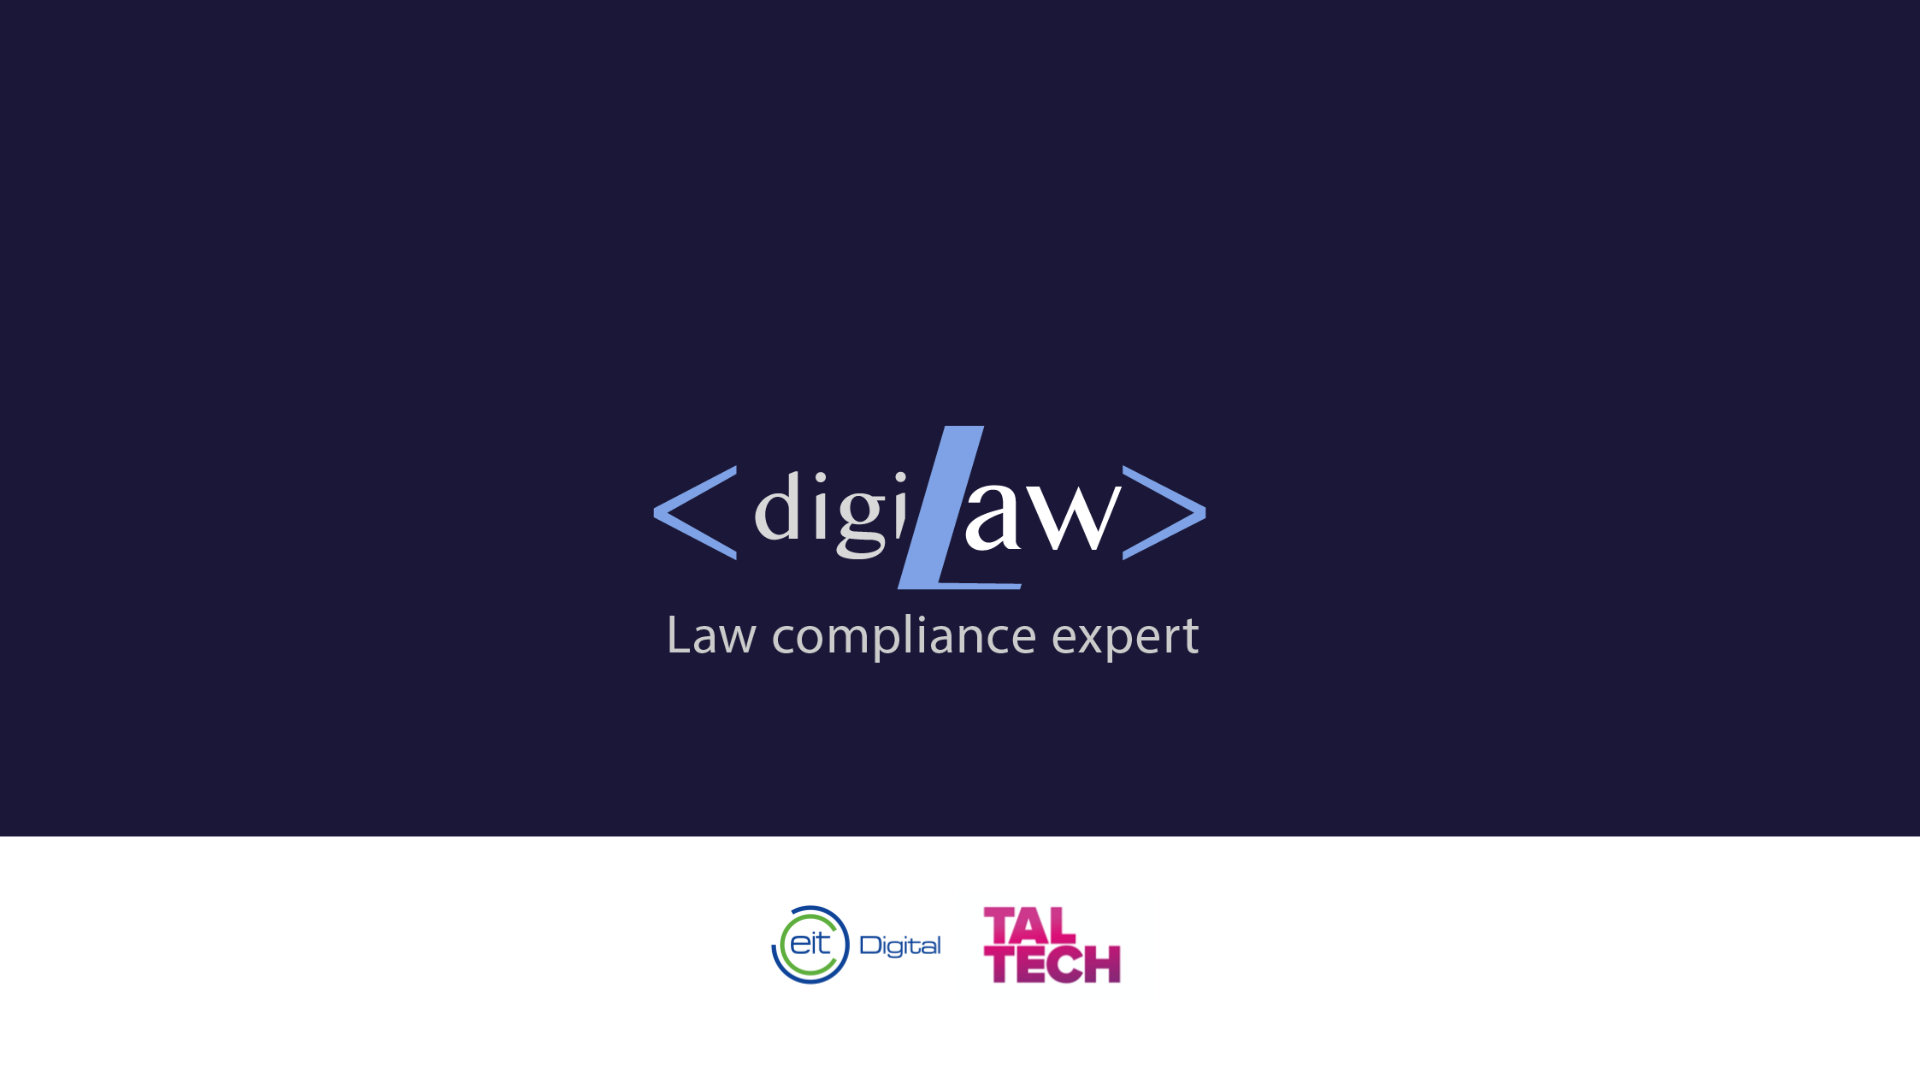
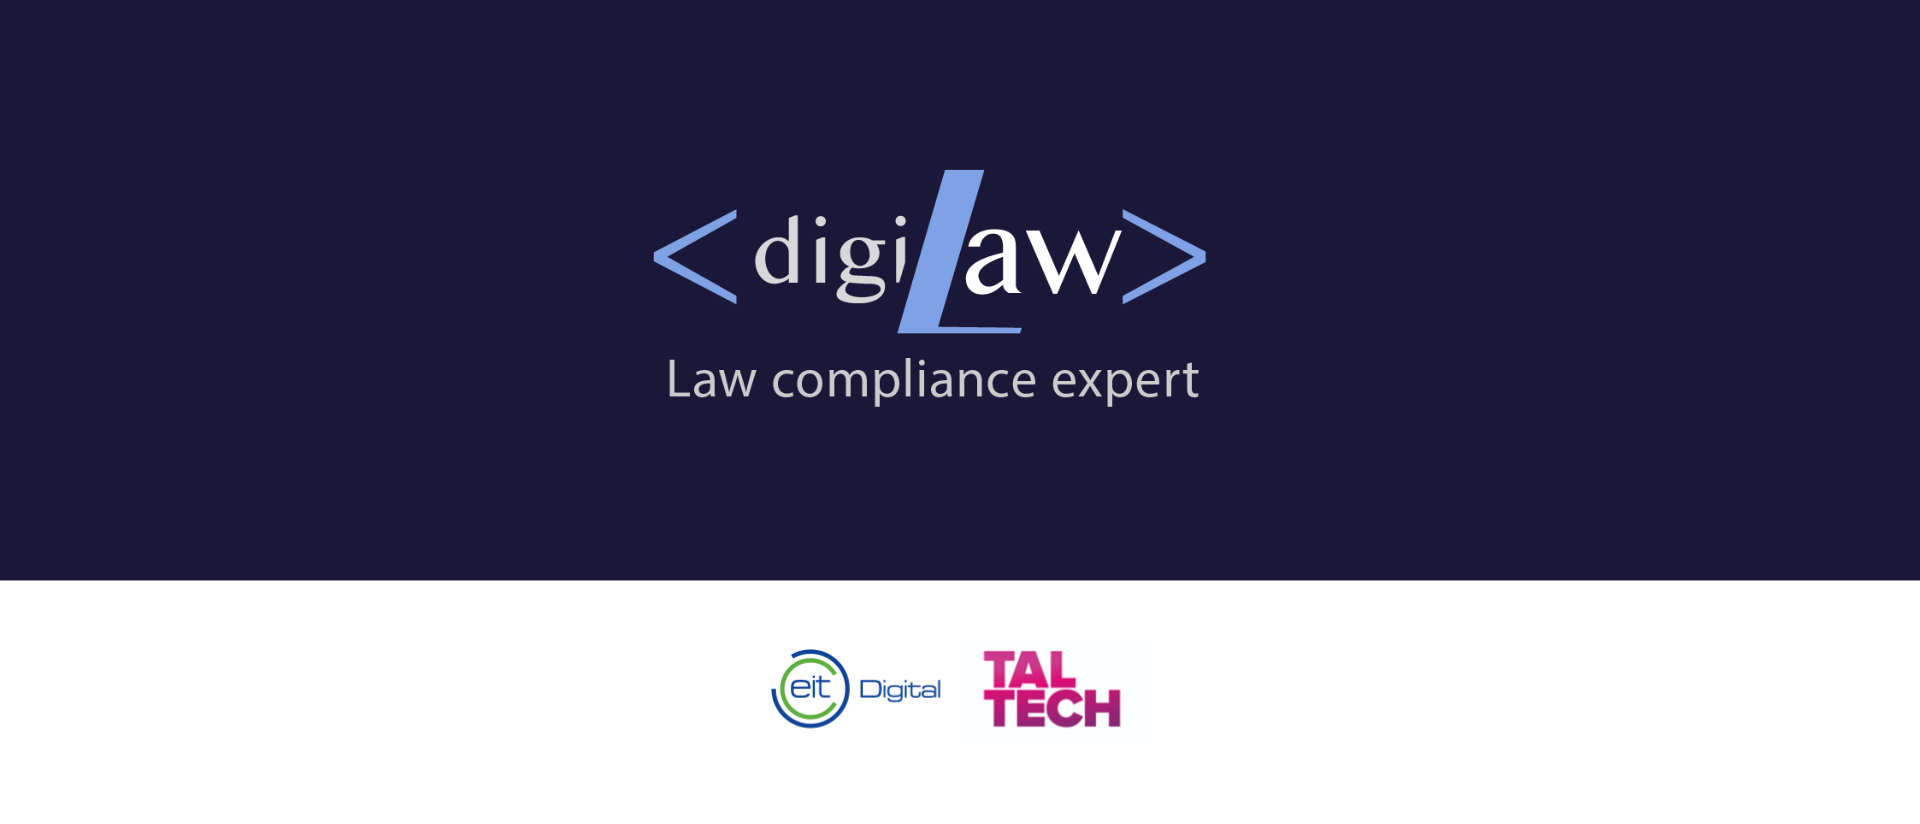
main change of Keegan

Changed region(s): [[0.0, 0.6978, 1.0, 0.9102], [0.3438, 0.2124, 0.625, 0.5461], [0.3438, 0.5765, 0.625, 0.6068]]

diff --git a/index.html b/index.html
@@ -27,26 +27,24 @@
          <div id="header-madsomma"></div>
          <div class="center-block justify-content-center">
 
-          <img class="min-vh-home" src="assets/img/home/1.png">
+          <!-- <img class="min-vh-home" src="assets/img/home/1.png"> -->
+          <img class="center-block min-vh-home" src="assets/img/home/1.png">
 
             <div  class="standard-page-width container">
                <div class="row text-center no-gutters">
-                  <div class="col-md-6">
-                     <h2><br><b>Test it!</b></h2>
+                  <div>
+                     <h2><br><b>Our Story</b></h2>
                      <p class="text-justify">
-                        Hei visitor, have a look at our prototype for the translation of the GDPR into code. Click on the following button to start the demo on Article 9.
+                        Hello, we are DigiLaw, and we are here to help small to medium sized businesses to comply with the ever changing laws of our digitalised society. Rules as Code means translating the complex human language of privacy regulations into logical code that can easily be checked by machines. Using such code our software can automatically check any system for GDPR compliance and tell what you would need to change and how.
+                     </p>
+                  </div>
+                  <div>
+                     <h2><br><b>Our Solution</b></h2>
+                     <p class="text-justify">
+                        A current  prototype  of  our solution  is currently  up and  running, click  on the button  below to check  your business's  compliance with  Article 9 of GDPR.
                      </p>
                      <div class="text-center">
-                        <a type="button" class="btn btn-link" href="test.html" style="color: #0078CD;"> <b>START</b></a>
-                     </div>
-                  </div>
-                  <div class="col-md-2"></div>
-                  <div class="col-md-4">
-                     <div style="text-align:center;">
-                        <h2><br><b>News</b><br></h2>
-                        <div class="alert alert-danger" role="alert" style="width: 100%">
-                           <b>Attention:</b> Due to the COVID-19 outbreak, we will not be avaiable for face to face meeting.
-                        </div>
+                       <button type="submit" class="our-button-color btn" id="btnContactUs"  onClick="location.href='test.html'";> Check your compliance! </button>
                      </div>
                   </div>
                </div>

diff --git a/info.html b/info.html
@@ -34,21 +34,25 @@
                </ol>
                <div class="carousel-inner">
                   <div class="carousel-item active">
-                     <img class="min-vh-home" src="assets/img/home/team.png">
+                     <img class="min-vh-homeInfo" src="assets/img/home/team.png">
                   </div>
                </div>
             </div>
             <div  class="standard-page-width container">
-               <div class="row no-gutters">
-                  <div class="col-md-12">
-                     <h2><br><b>Who we are</b></h2>
-                     <p class="text-justify">
-                        Hello, we are DigiLaw, and we are here to help small to medium sized businesses to comply with the ever changing laws of our digitalised society. Rules as Code means translating the complex human language of privacy regulations into logical code that can easily be checked by machines. Using such code our software can automatically check any system for GDPR compliance and tell what you would need to change and how.
-                     </p>
-                     <p class="text-justify">
-                       Using our team’s background in cyber security and human computer interaction, we can bridge the gap between digital data and written law, while the variety of roles make us a strongly organized team.
-                     </p>
-                  </div>
+               <div class="center-block justify-content-center">
+
+                 <div class="row text-center no-gutters">
+                    <div>
+                       <h2><br><b>Who we are</b></h2>
+                       <p class="text-justify">
+                         Hello, we are DigiLaw, and we are here to help small to medium sized businesses to comply with the ever changing laws of our digitalised society. Rules as Code means translating the complex human language of privacy regulations into logical code that can easily be checked by machines. Using such code our software can automatically check any system for GDPR compliance and tell what you would need to change and how.
+                       </p>
+                       <p class="text-justify">
+                         Using our team’s background in cyber security and human computer interaction, we can bridge the gap between digital data and written law, while the variety of roles make us a strongly organized team.
+                       </p>
+                    </div>
+                 </div>
+                 
                </div>
             </div>
          </div>

diff --git a/main.js b/main.js
@@ -42,7 +42,7 @@ function noCompliance(){
   var element = document.getElementById("article");
   element.appendChild(br);
   element.appendChild(para);
-  
+
   var myText = document.getElementById("title").innerHTML;
   var marked = myText.replace("Article 9", "You are not compliant with Article 9!")
   document.getElementById("title").innerHTML = marked;
@@ -126,15 +126,15 @@ function insertParagraph(txt){
 
 function insertButton(){
   // 1. Create the button
-var button = document.createElement("button");
-button.innerHTML = " Contact our Lawyer ";
+  var myButton = document.createElement("<button style='background-color:yellow;' class='btn btn-default'> MyButton</button>");
+  //button.innerHTML = " Contact our Lawyer ";
 
-var body = document.getElementById("article");
-body.appendChild(button);
+  var body = document.getElementById("article");
+  body.appendChild(myButton);
 
-button.addEventListener ("click", function() {
-  alert("Sorry, but this feature is not yet avaiable.");
-});
+  myButton.addEventListener ("click", function() {
+    alert("Sorry, but this feature is not yet avaiable.");
+  });
 }
 
 function insertButton1(){

diff --git a/assets/css/myCSS.css b/assets/css/myCSS.css
@@ -332,6 +332,11 @@ h5 {
 }
 
 .min-vh-home {
+	height: calc(40vh);
+	min-width: 15vw;
+}
+
+.min-vh-homeInfo {
 	height: calc(100vh - 81px);
 	min-width: 100vw;
 }
@@ -625,7 +630,7 @@ h5 {
 }
 
 .our-button-color {
-	background-color: #0078CD !important;
+	background-color: #1C193F !important;
 	color: #fff !important;
 }
 
